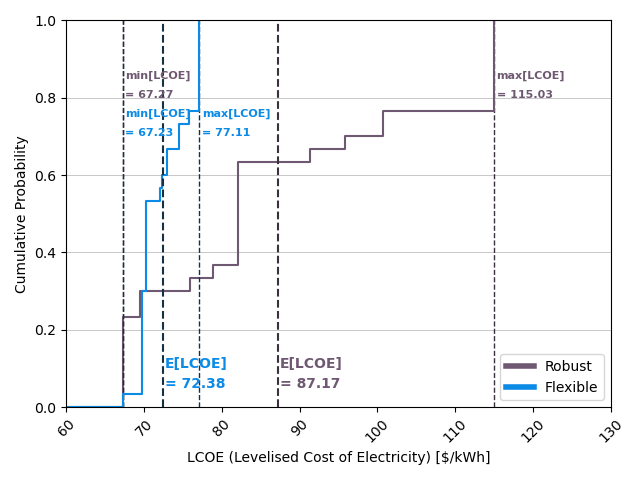
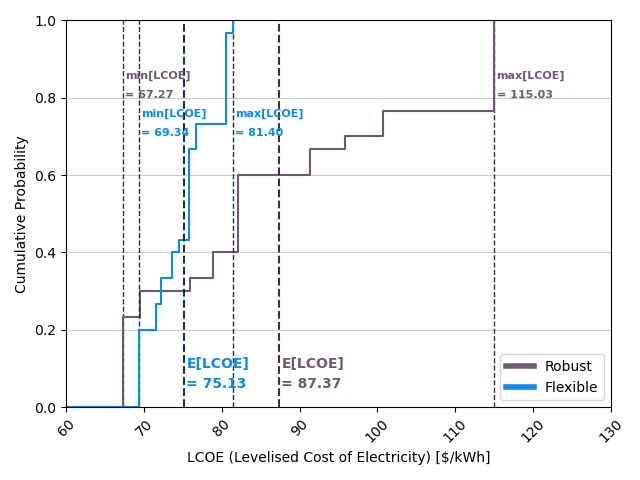
May 21: probability sensitivity analysis

Changed region(s): [[0.1875, 0.0312, 0.5, 0.8438], [0.4375, 0.7188, 0.5312, 0.8125]]

diff --git a/src/utils/analysis/testing/probabilityValues.py b/src/utils/analysis/testing/probabilityValues.py
@@ -15,25 +15,66 @@ import cumulativeDistribution as cd
 
 def main():
     probabilities = generate_prob_1()
+    res = []
     for prob in probabilities:
-        cm.main()
-        ep.main(prob)
-        cd.main()
+        if prob[1] == 0.1:
+            cm.main(alpha=9.5*20*365*24)
+            ep.main(prob)
+            res.append([[prob[0], prob[2]], label_results((cd.main_tree([prob,calculate_prob_2(prob)], plot=False, choose_best=True)))])
+        res.sort(key=lambda x: x[1])
+    plot_results(res)
 
-def generate_prob_1(increment=0.1):
+def generate_prob_1():
     probabilities = []
-    tolerance = 1e-9  # small tolerance for floating point precision
-    for x1 in range(0, 11):
-        for x2 in range(0, 11):
-            x1_value = x1 * increment
-            x2_value = x2 * increment
-            x3_value = 1 - x1_value - x2_value
-            if 0 - tolerance <= x3_value <= 1 + tolerance and abs(x3_value % increment) < tolerance:
-                probabilities.append([round(x1_value, 1), round(x2_value, 1), round(x3_value, 1)])
+    for x1 in range(0, 101):
+        for x2 in range(0, 101):
+            for x3 in range(0, 101):
+                if x1 + x2 + x3 <= 100:
+                    probabilities.append([x1*0.01, x2*0.01, x3*0.01])
+            # x1_value = x1
+            # x2_value = x2
+            # x3_value = 10 - x1_value - x2_value
+            # if x1_value + x2_value + x3_value == 10 and x3_value >= 0:
+            #     probabilities.append([round(x1_value*0.1, 1), round(x2_value*0.1, 1), round(x3_value*0.1, 1)])
     return probabilities
 
-def calculate_prob_2(prob): #prob = [0.1, 0.2, 0.7]
+def calculate_prob_2(prob): # bayes' theorem
+    EVSI = np.array([
+        [0.7, 0.2, 0.1],
+        [0.2, 0.6, 0.2],
+        [0.1, 0.2, 0.7]
+    ])
+    # marginal probabilities for B_j
+    P_B = np.dot(EVSI, np.array(prob))
+    # apply Bayes' theorem to update probabilities
+    P_A_given_B = np.zeros((3, 3))
+    for j in range(3):
+        for i in range(3):
+            P_A_given_B[i, j] = (EVSI[i, j] * prob[i]) / P_B[j]
+    res = []
+    for j in range(3):
+        for i in range(3):
+            res.append(P_A_given_B[i, j])
+    return res
+
+def label_results(mean): # mean = [['desc', val]]
+    if mean[0][1] < mean[1][1]:
+        return True
+    if mean[0][1] > mean[1][1]:
+        return False
     
+def plot_results(res): # res = [[[x, y], 'desc']...]
+    x = [item[0][0] for item in res]
+    y = [item[0][1] for item in res]
+    desc = [item[1] for item in res]
+    
+    plt.scatter(x, y, c=desc, cmap='seismic')
+    plt.xlabel('x')
+    plt.ylabel('y')
+    plt.title('Graph')
+    plt.colorbar(label='Description')
+    plt.show()
 
 if __name__ == "__main__":
+    print(calculate_prob_2)
     main()

diff --git a/src/utils/analysis/cumulativeDistribution.py b/src/utils/analysis/cumulativeDistribution.py
@@ -8,7 +8,7 @@ import sys
 sys.path.append('tools')
 from design import colors
 
-def main_tree(probabilities = [[1/3, 1/3, 1/3], [0.7, 0.2, 0.1, 0.1, 0.8, 0.1, 0.1, 0.2, 0.7]], plot = False, choose_best = False):
+def main_tree(probabilities = [[1/3, 1/3, 1/3], [0.7, 0.2, 0.1, 0.2, 0.6, 0.2, 0.1, 0.2, 0.7]], plot = False, choose_best = False):
 
     # read in decision_tree_optimal_path.csv
     filename = "src/utils/data/processed/decision_tree_optimal_path.csv"
@@ -43,6 +43,7 @@ def main_tree(probabilities = [[1/3, 1/3, 1/3], [0.7, 0.2, 0.1, 0.1, 0.8, 0.1, 0
     this part is for filtering to only show the best inflexible and flexible
     """
     if choose_best:
+        mean = [["robust"], ["flexible"]]
         for i, data in enumerate(all_data):
             e_lcoe = np.dot([x[0] for x in data], [x[1] for x in data])
             if i < 2:
@@ -159,6 +160,6 @@ def process_simulation_outcomes():
 
 # testing
 if __name__ == "__main__":
-    main_tree(plot=True, choose_best = False)
-    main_tree(plot=True, choose_best = True)
+    # main_tree(plot=True, choose_best = False)
+    print(main_tree(plot=True, choose_best = True))
     main_sim()

diff --git a/src/utils/analysis/testing/tes.py b/src/utils/analysis/testing/tes.py
@@ -1,0 +1,27 @@
+def generate_prob_1():
+    probabilities = []
+    for x1 in range(0, 11):
+        for x2 in range(0, 11):
+            x1_value = x1
+            x2_value = x2
+            x3_value = 10 - x1_value - x2_value
+            if x1_value + x2_value + x3_value == 10 and x3_value >= 0:
+                probabilities.append([round(x1_value*0.1, 1), round(x2_value*0.1, 1), round(x3_value*0.1, 1)])
+    return probabilities
+
+import matplotlib.pyplot as plt
+
+probabilities = generate_prob_1()
+x = [p[0] for p in probabilities]
+y = [p[1] for p in probabilities]
+z = [p[2] for p in probabilities]
+
+fig = plt.figure()
+ax = fig.add_subplot(111, projection='3d')
+ax.scatter(x, y, z)
+
+ax.set_xlabel('x')
+ax.set_ylabel('y')
+ax.set_zlabel('z')
+
+plt.show()
